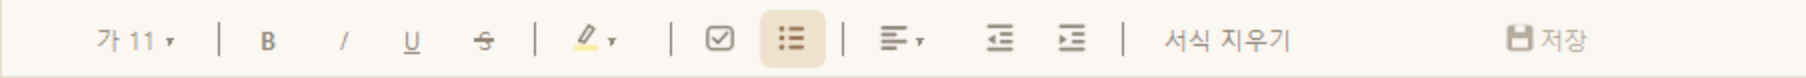
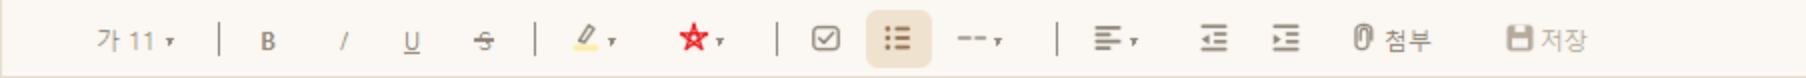
README 에 첨부파일·구분선·별표·노트 삭제 반영하고 이미지 갱신
- 파일 첨부 절 신설 (툴바 버튼 / 드래그앤드롭 / 칩 목록 / 검색 포함)
- 서식 절에 빨간 별표와 구분선 설명 추가
- 단축키에 Ctrl+Shift+Delete, 자동 서식에 --- 구분선 추가
- 저장 형식에 attachments 목록과 divider 블록, star run 설명 추가
- 구조 표에 attachment.py, 테스트 절에 test_attachment 추가
- 화면 이미지 3장 재생성 (첨부 칩과 새 툴바 버튼이 보이도록
  make_screenshots 에 더미 첨부를 붙이는 단계를 넣었다)

Changed region(s): [[0.3721, 0.1282, 0.8062, 0.8718]]

diff --git a/tools/make_screenshots.py b/tools/make_screenshots.py
@@ -44,6 +44,32 @@ def framed(image: QImage, radius: int = 10) -> QImage:
     return rounded
 
 
+def seed_attachments() -> None:
+    """첨부파일 칩이 화면에 보이도록 더미 파일 몇 개를 붙인다."""
+    import tempfile
+
+    from notememo import storage
+
+    scratch = Path(tempfile.mkdtemp(prefix="notememo-shot-att-"))
+    dummies = [
+        ("배포 장애 타임라인.pdf", b"%PDF-1.4\n" + b"0" * 40000),
+        ("서버로그_1104.txt", "504 Gateway Timeout x 41\n".encode() * 300),
+        ("캐시 설정.yaml", b"cache:\n  invalidate: false\n" * 40),
+    ]
+    attachments = []
+    for name, blob in dummies:
+        path = scratch / name
+        path.write_bytes(blob)
+        meta = storage.save_attachment(sample.TODAY, path)
+        if meta:
+            attachments.append(meta)
+
+    note = storage.load_note(sample.TODAY)
+    storage.save_note(
+        sample.TODAY, storage.Note(note.title, note.blocks, attachments)
+    )
+
+
 def main() -> int:
     app = QApplication(sys.argv)
     font = QFont()
@@ -53,6 +79,7 @@ def main() -> int:
     app.setStyleSheet(theme.stylesheet())
 
     sample.seed()
+    seed_attachments()
     window = MainWindow()
     window.resize(1180, 900)
     window.show()
